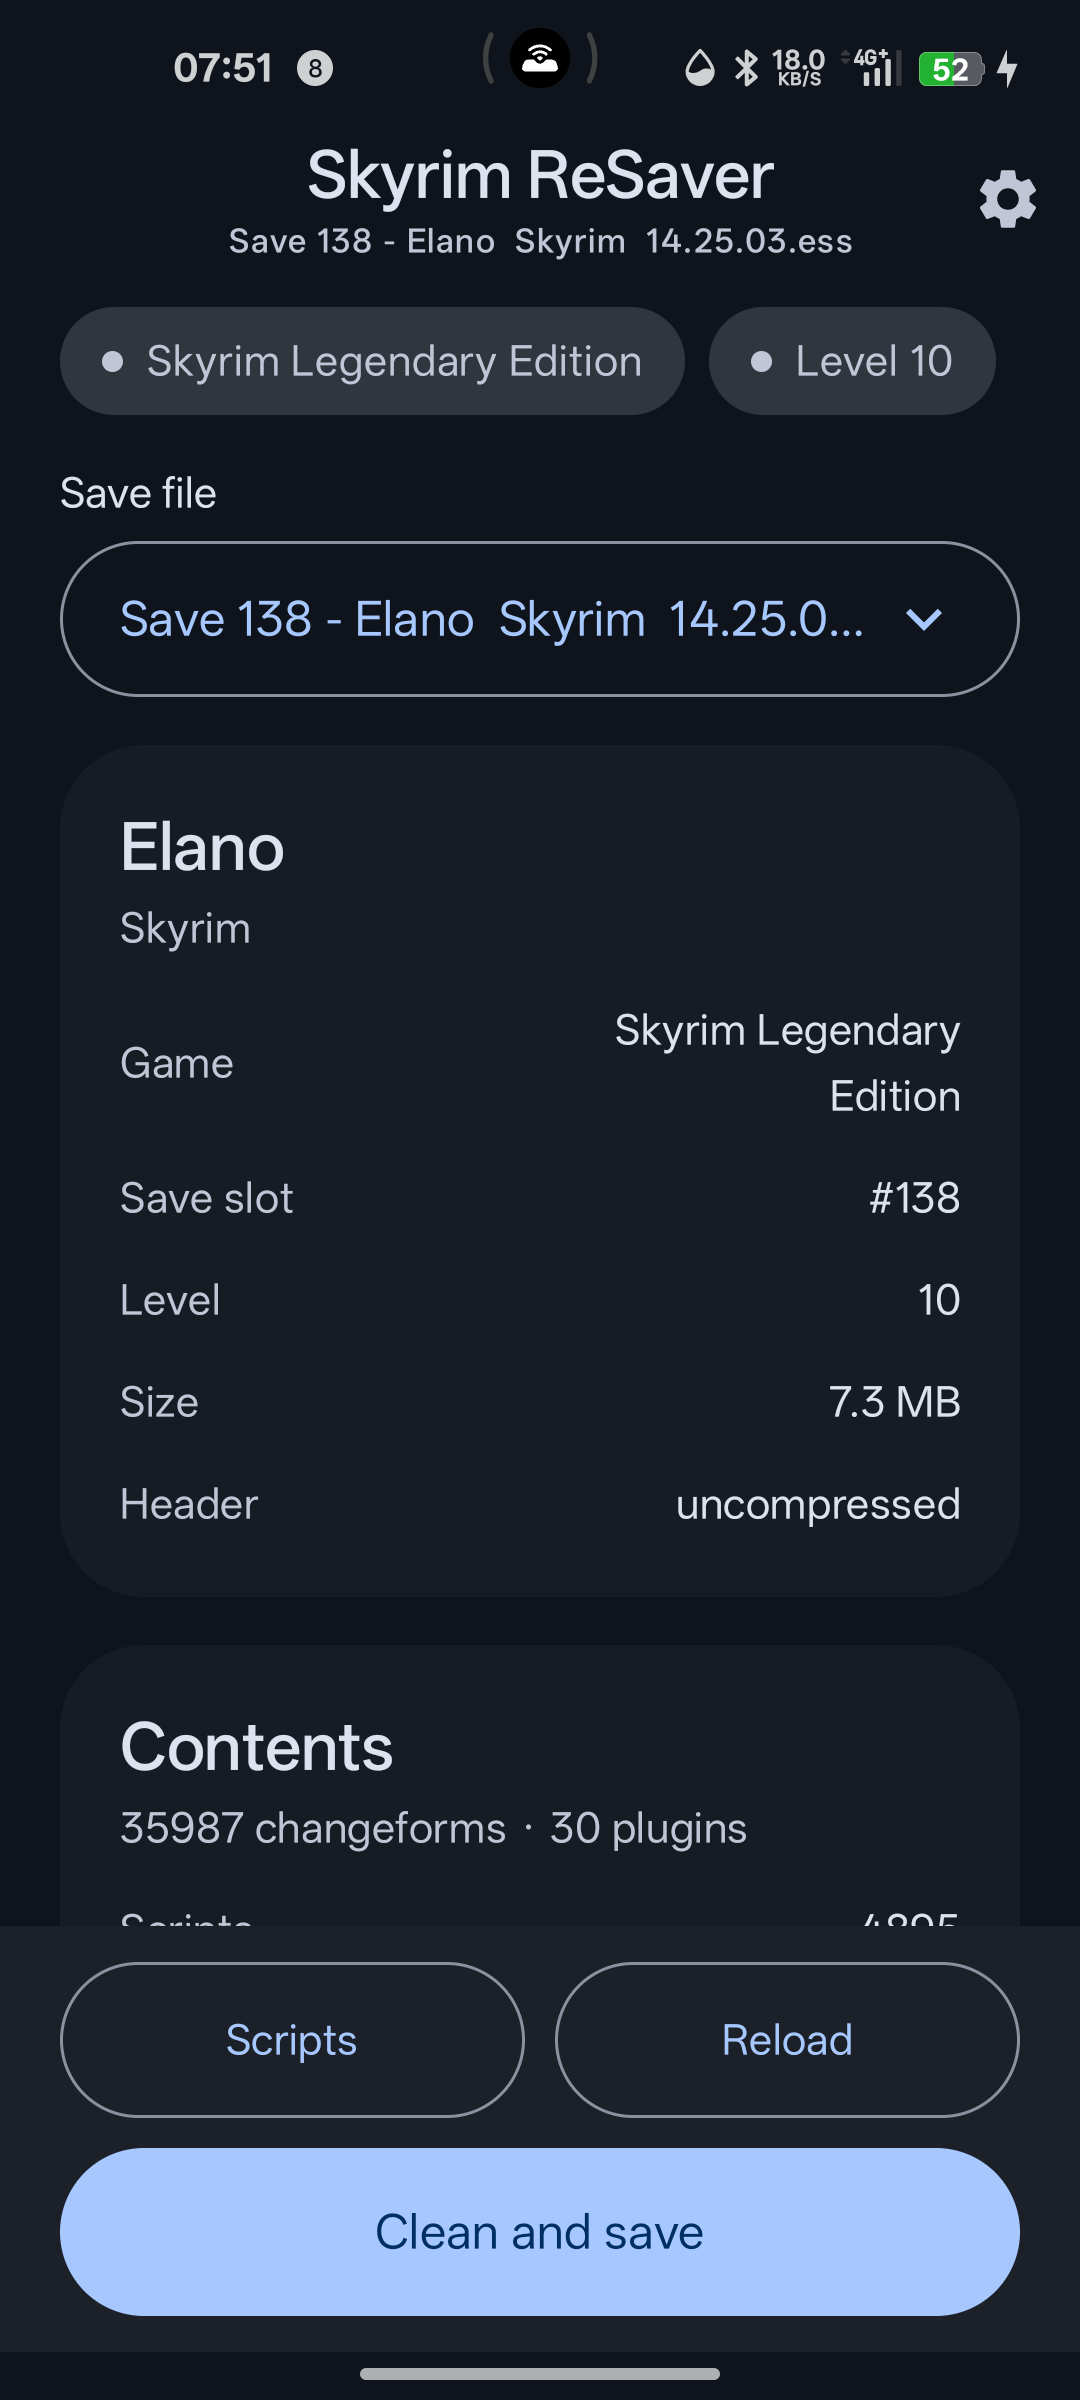
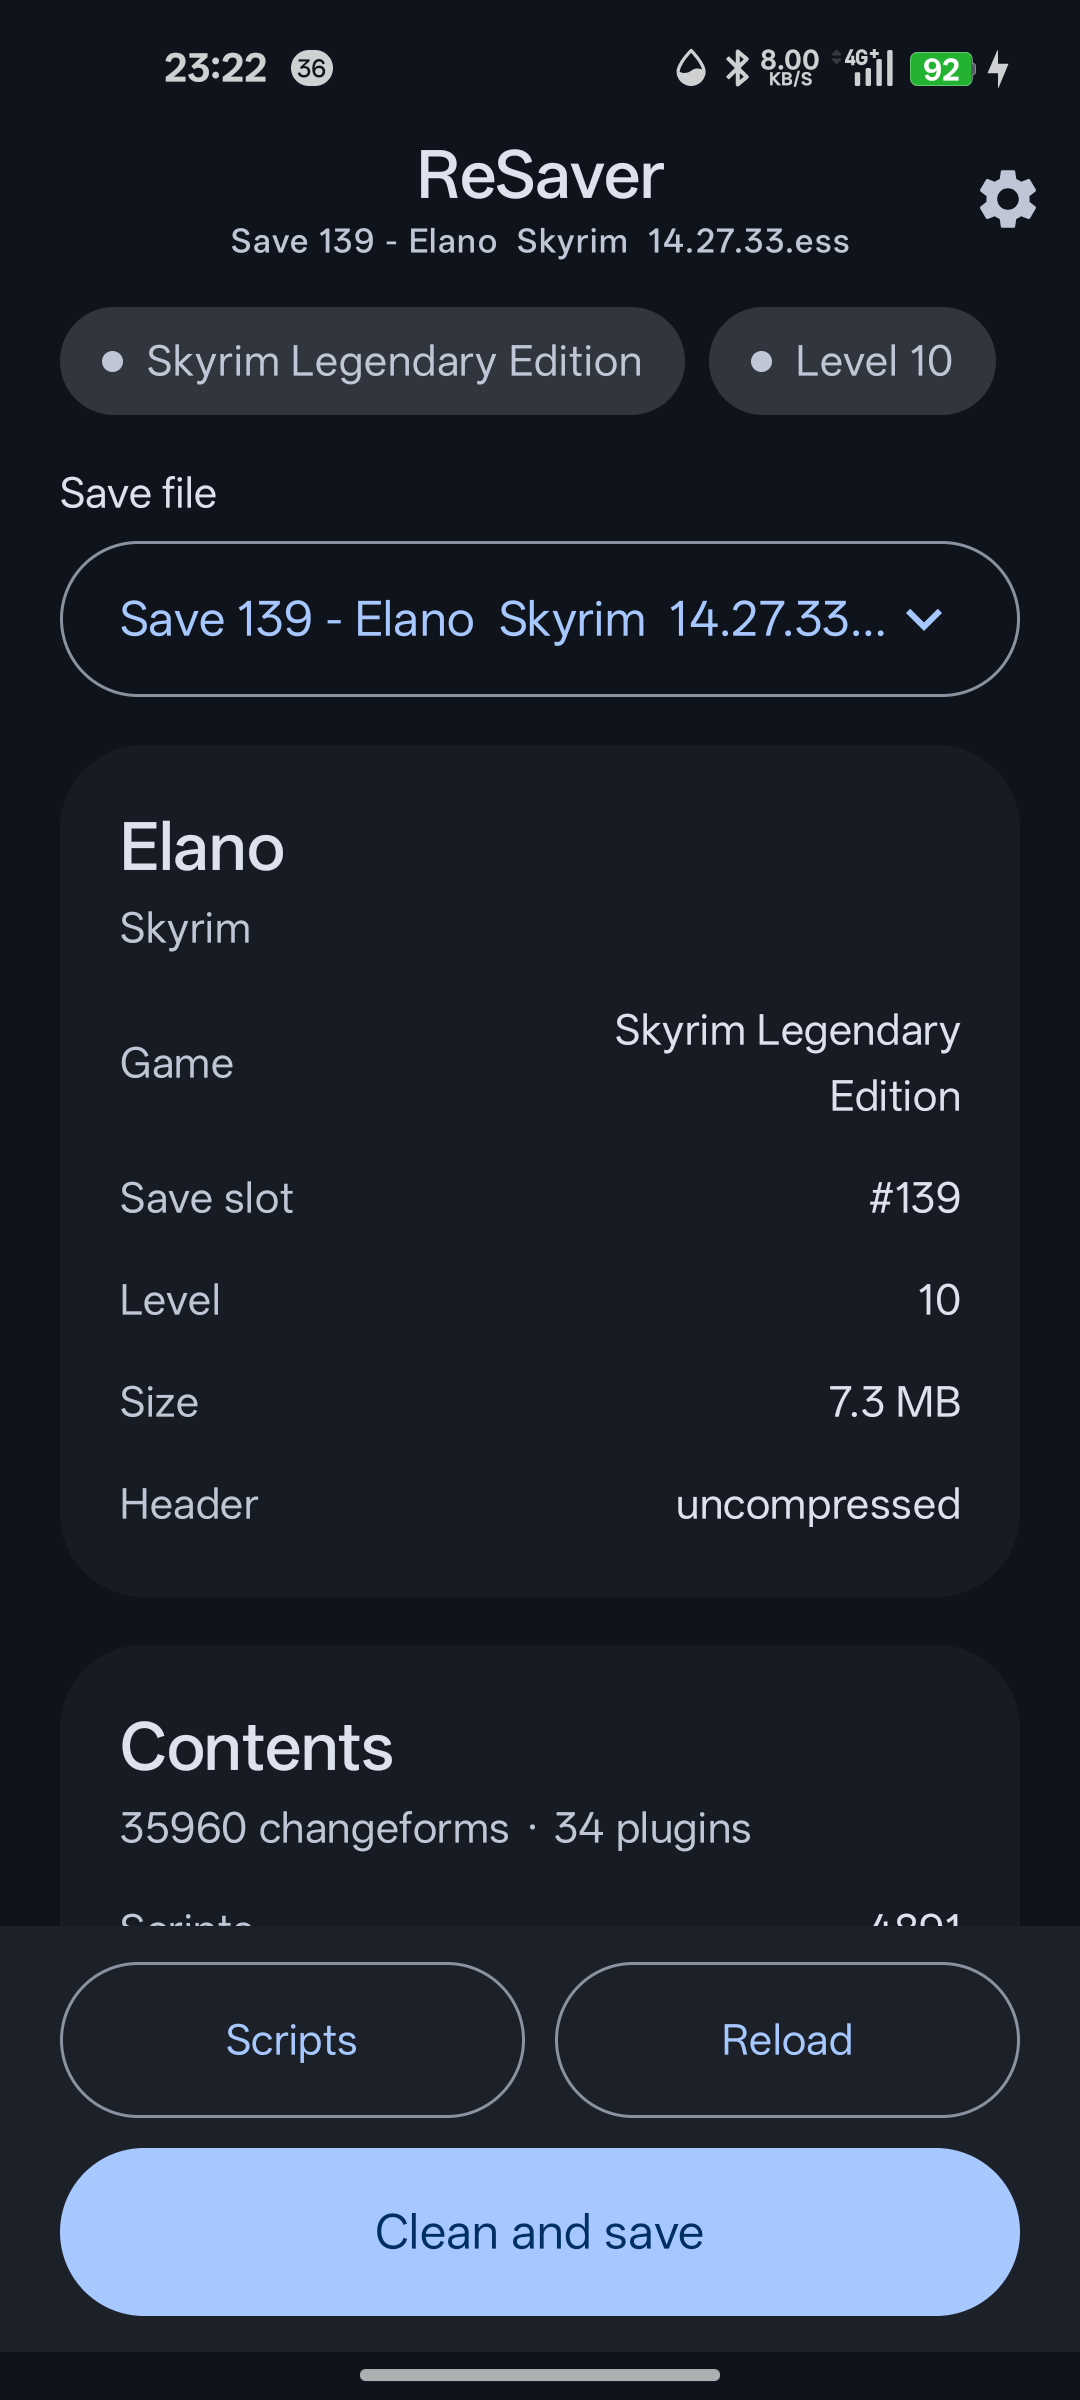
Keep the settings sheet clear of the system bars
The sheet opens in its own dialog window, which does not receive the
activity's system bar insets, so a tall sheet painted its header under the
status bar and its last row under the navigation bar. Track the activity
window insets and pad the sheet by them.

Refresh docs/screenshot-main.png for the ReSaver rename.

diff --git a/app/src/main/java/com/skyrimandroid/resaver/MainActivity.kt b/app/src/main/java/com/skyrimandroid/resaver/MainActivity.kt
@@ -15,6 +15,8 @@ import androidx.compose.runtime.getValue
 import androidx.compose.runtime.mutableStateOf
 import androidx.compose.runtime.setValue
 import androidx.core.content.ContextCompat
+import androidx.core.view.ViewCompat
+import androidx.core.view.WindowInsetsCompat
 import androidx.lifecycle.lifecycleScope
 import com.skyrimsuite.ui.theme.SkyrimSuiteTheme
 import kotlinx.coroutines.Dispatchers
@@ -45,6 +47,11 @@ class MainActivity : AppCompatActivity() {
     private var statusText by mutableStateOf("")
     private var logText by mutableStateOf("")
     private var saveBroken by mutableStateOf(false)
+
+    // System bar insets of the activity window. The settings sheet runs in its
+    // own dialog window, which does not see these, so they are forwarded to it.
+    private var systemTopInsetPx by mutableStateOf(0)
+    private var systemBottomInsetPx by mutableStateOf(0)
 
     private var loaded: SaveFile? = null
     private var pendingPick = false
@@ -78,6 +85,7 @@ class MainActivity : AppCompatActivity() {
         statusText = getString(R.string.status_ready)
 
         maybeRequestLegacyPermission()
+        trackSystemInsets()
 
         setContent {
             SkyrimSuiteTheme {
@@ -129,6 +137,8 @@ class MainActivity : AppCompatActivity() {
                 ResaverSheets(
                     showSettings = showSettings,
                     savesFolderPath = savesFolderPath,
+                    topInsetPx = systemTopInsetPx,
+                    bottomInsetPx = systemBottomInsetPx,
                     onChangeFolder = {
                         showSettings = false
                         pendingPick = true
@@ -165,6 +175,20 @@ class MainActivity : AppCompatActivity() {
         storageGranted = StoragePaths.hasAllFilesAccess(this)
         if (storageGranted && savesFolderPath != null && saveFiles.isEmpty()) {
             scanSaves()
+        }
+    }
+
+    /**
+     * The settings sheet is a dialog window and does not inherit the activity's
+     * system bar insets, so keep a copy here for it to pad against.
+     */
+    private fun trackSystemInsets() {
+        val decor = window.decorView
+        decor.viewTreeObserver.addOnGlobalLayoutListener {
+            val insets = ViewCompat.getRootWindowInsets(decor) ?: return@addOnGlobalLayoutListener
+            val bars = insets.getInsets(WindowInsetsCompat.Type.systemBars())
+            if (bars.top != systemTopInsetPx) systemTopInsetPx = bars.top
+            if (bars.bottom != systemBottomInsetPx) systemBottomInsetPx = bars.bottom
         }
     }
 

diff --git a/suite-ui/src/main/kotlin/com/skyrimsuite/ui/SuiteComponents.kt b/suite-ui/src/main/kotlin/com/skyrimsuite/ui/SuiteComponents.kt
@@ -62,6 +62,7 @@ import androidx.compose.ui.graphics.Color
 import androidx.compose.ui.text.font.FontWeight
 import androidx.compose.ui.text.style.TextAlign
 import androidx.compose.ui.text.style.TextOverflow
+import androidx.compose.ui.unit.Dp
 import androidx.compose.ui.unit.dp
 import com.skyrimsuite.ui.theme.SuiteMonoTextStyle
 
@@ -454,14 +455,20 @@ fun SuiteSettingsSheet(
     visible: Boolean,
     onDismiss: () -> Unit,
     title: String = "Advanced settings",
+    topInset: Dp = 0.dp,
+    bottomInset: Dp = 0.dp,
     content: @Composable ColumnScope.() -> Unit
 ) {
     if (!visible) return
     val sheetState = rememberModalBottomSheetState(skipPartiallyExpanded = true)
 
+    // The sheet lives in its own dialog window, which does not receive the
+    // activity's system bar insets, so a tall sheet would otherwise draw its
+    // header under the status bar and its last row under the navigation bar.
     ModalBottomSheet(
         onDismissRequest = onDismiss,
         sheetState = sheetState,
+        modifier = Modifier.padding(top = topInset),
         containerColor = MaterialTheme.colorScheme.surfaceContainerLow,
         dragHandle = {
             Box(
@@ -480,7 +487,7 @@ fun SuiteSettingsSheet(
                 .fillMaxWidth()
                 .verticalScroll(rememberScrollState())
                 .padding(horizontal = 24.dp)
-                .padding(bottom = 32.dp),
+                .padding(bottom = 32.dp + bottomInset),
             verticalArrangement = Arrangement.spacedBy(20.dp)
         ) {
             Text(

diff --git a/app/src/main/java/com/skyrimandroid/resaver/ResaverScreen.kt b/app/src/main/java/com/skyrimandroid/resaver/ResaverScreen.kt
@@ -17,6 +17,7 @@ import androidx.compose.runtime.remember
 import androidx.compose.runtime.setValue
 import androidx.compose.ui.Alignment
 import androidx.compose.ui.Modifier
+import androidx.compose.ui.platform.LocalDensity
 import androidx.compose.ui.text.font.FontWeight
 import androidx.compose.ui.text.style.TextOverflow
 import androidx.compose.ui.unit.dp
@@ -271,15 +272,20 @@ private fun CleanupCard(
 fun ResaverSheets(
     showSettings: Boolean,
     savesFolderPath: String?,
+    topInsetPx: Int,
+    bottomInsetPx: Int,
     onChangeFolder: () -> Unit,
     onManualPath: () -> Unit,
     onDismiss: () -> Unit,
     onRescan: () -> Unit
 ) {
+    val density = LocalDensity.current
     SuiteSettingsSheet(
         visible = showSettings,
         onDismiss = onDismiss,
-        title = "Advanced settings"
+        title = "Advanced settings",
+        topInset = with(density) { topInsetPx.toDp() },
+        bottomInset = with(density) { bottomInsetPx.toDp() }
     ) {
         SuitePathRow(
             title = "Saves folder",
